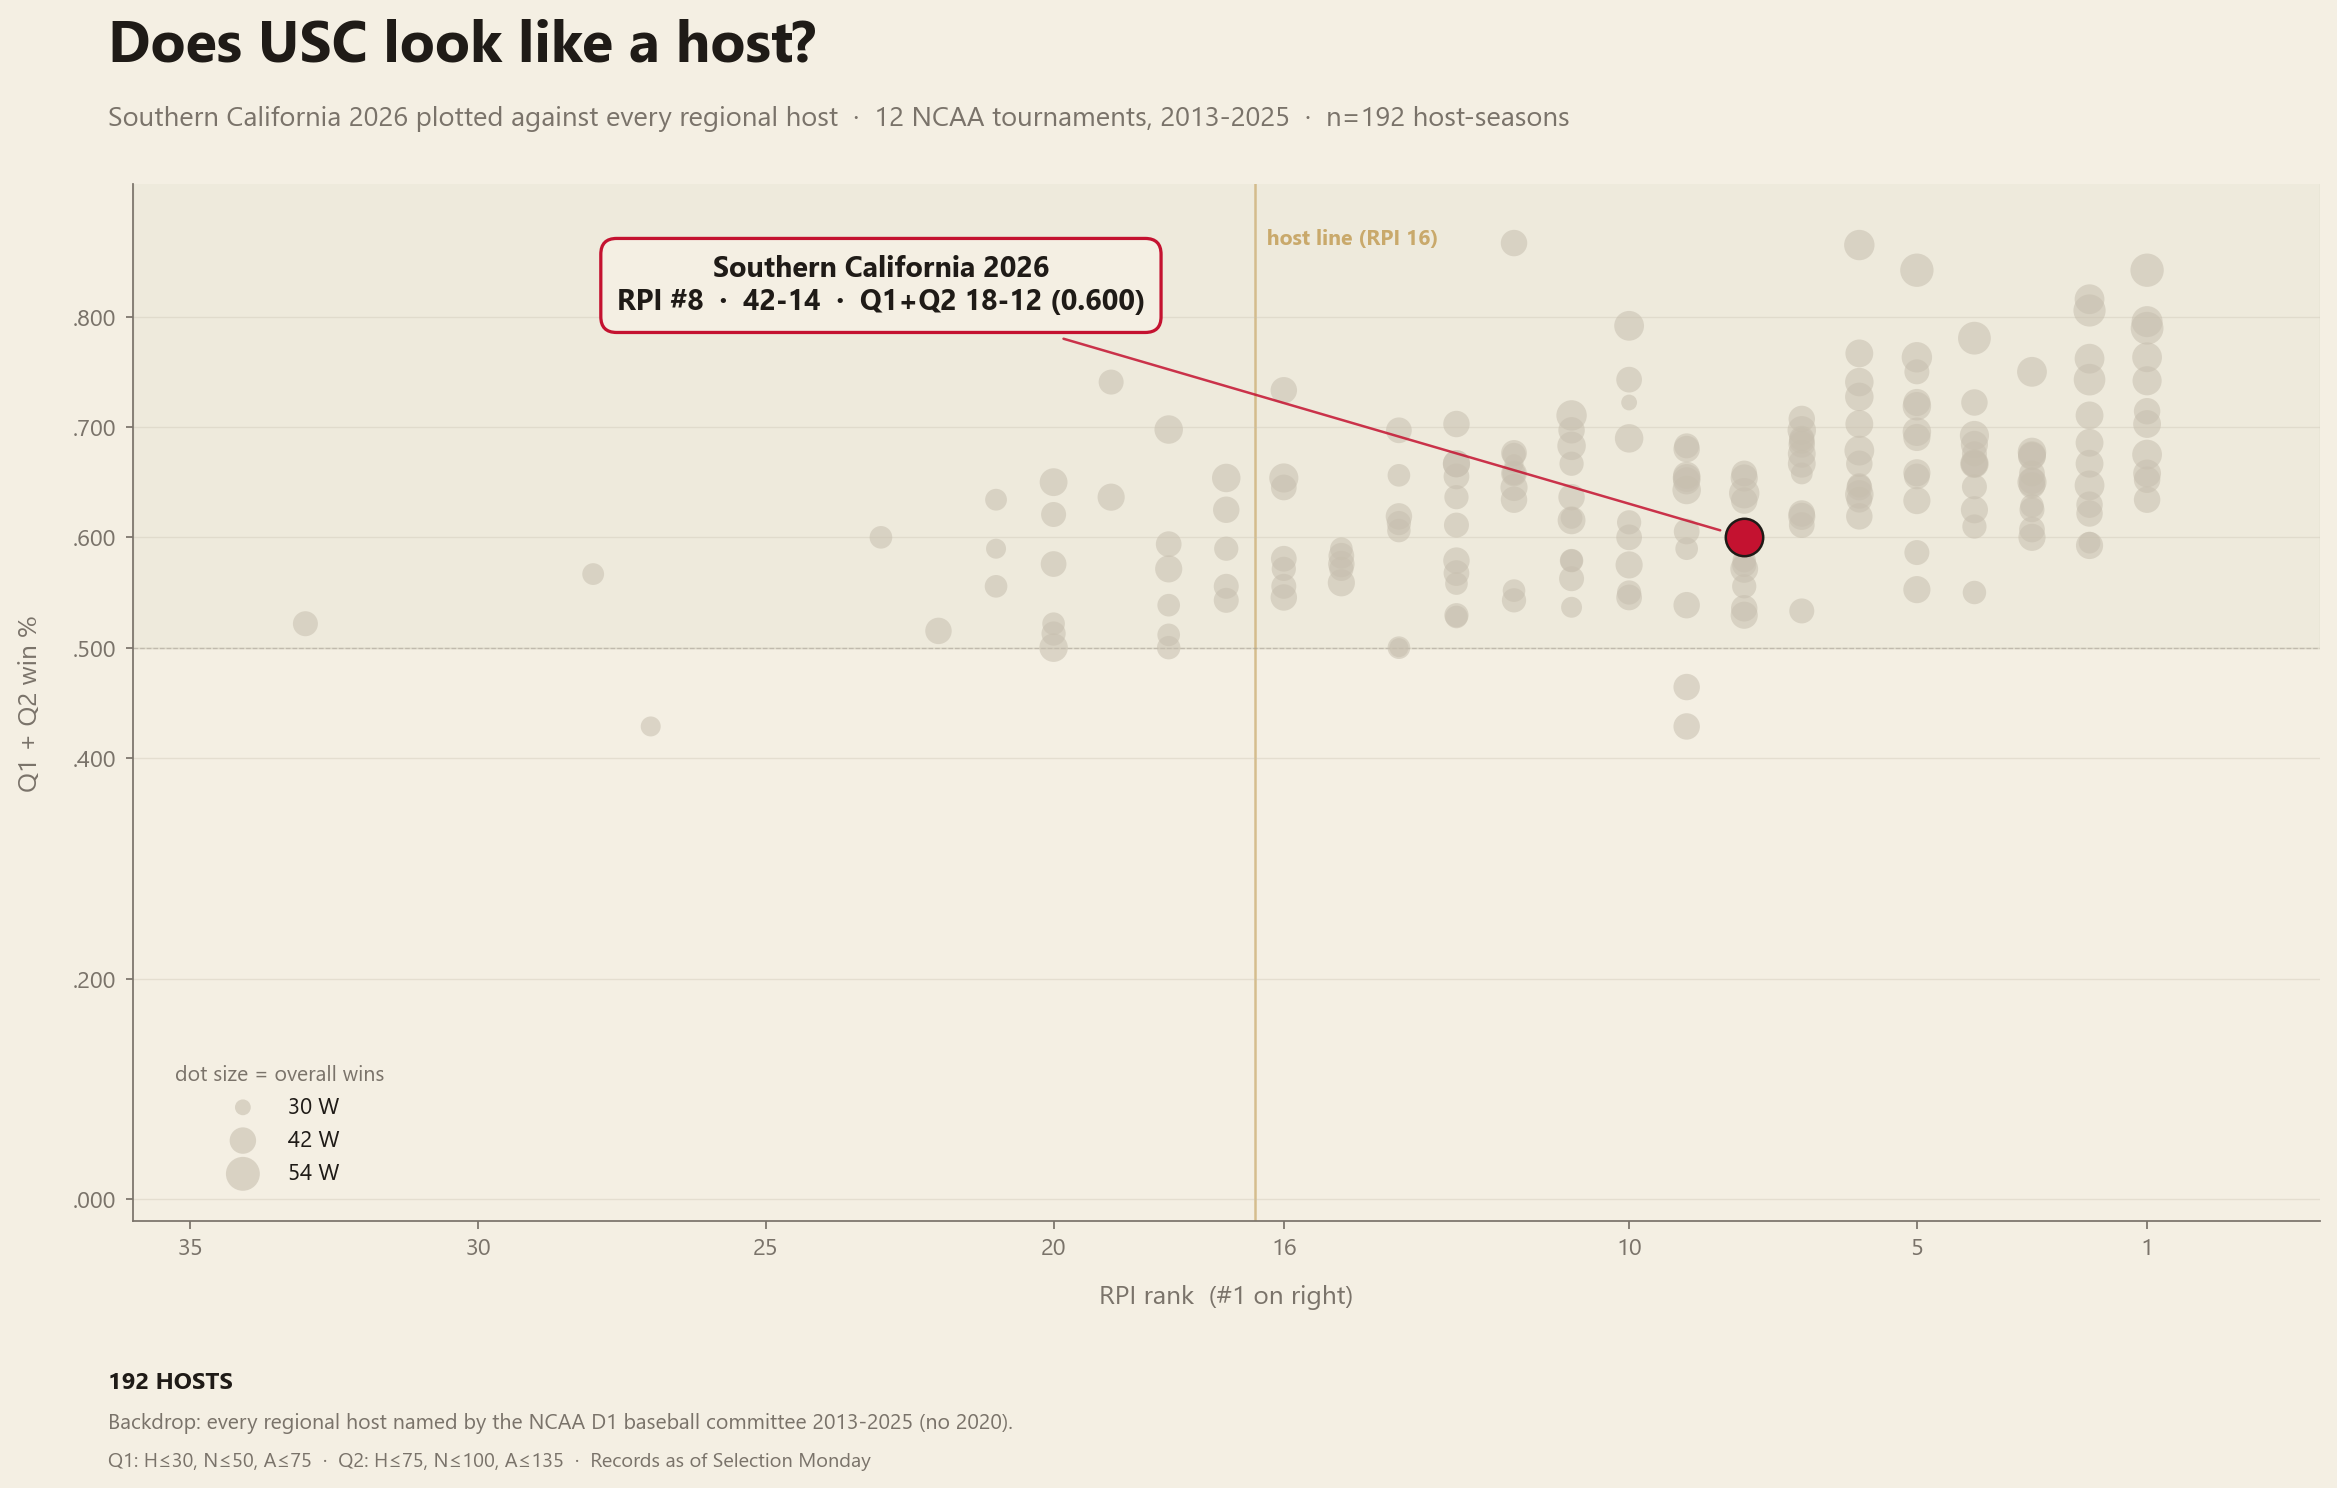
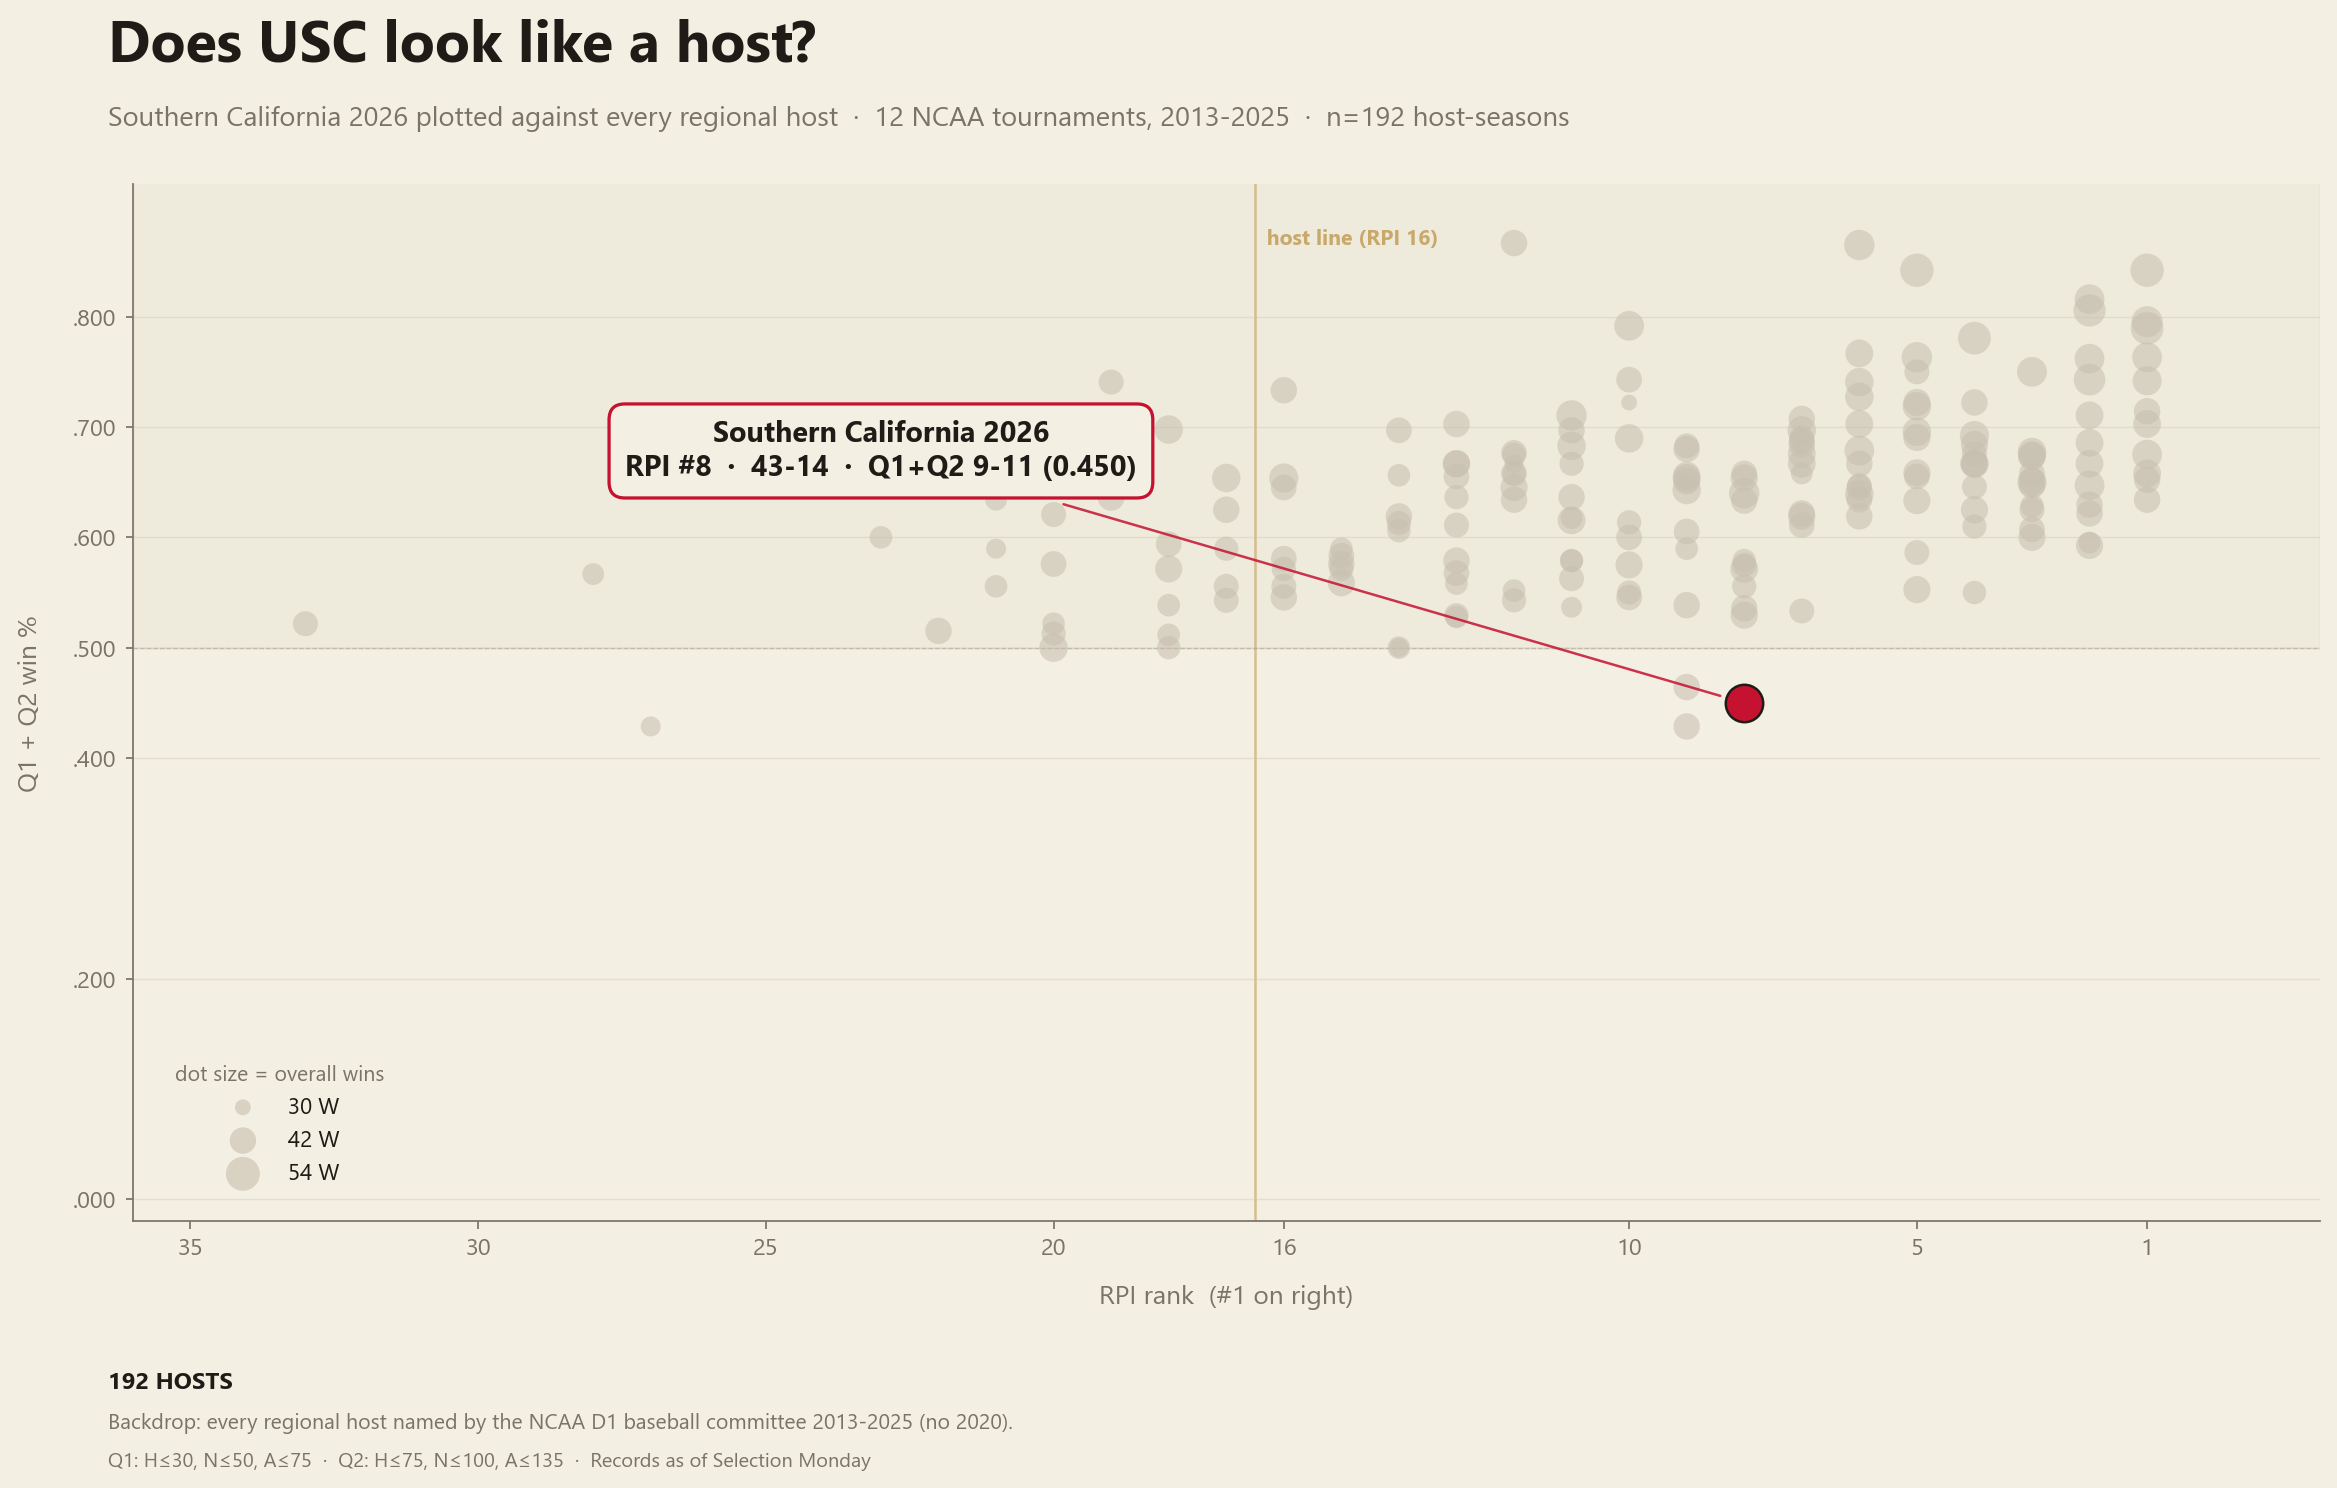
chart: update USC + Mercer to user-provided d1baseball numbers
USC      43-14, RPI #8,  Q1+Q2 9-11 (.450)  was 42-14, 18-12 (.600)
  Mercer   44-15, RPI #28, Q1+Q2 9-13 (.409)  record updated 44-14 -> 44-15

Both stories shift slightly:
  - USC: RPI says host (#8 = inside the cluster), but their Q1+Q2 .450
    is well below where hosts typically live (most hosts are .500-.800).
    Only Texas A&M 2018 (.472) hosted with a comparable Q1+Q2 number.
  - Mercer position unchanged on Q1+Q2 axis; overall record bumped.

diff --git a/scripts/build_current_q1q2.py b/scripts/build_current_q1q2.py
@@ -26,12 +26,22 @@ TEAMS = ['Southern California', 'Mercer']
 # Each override is keyed by team name. Only fields listed are replaced.
 OVERRIDES = {
     'Mercer': {
-        # Per d1baseball.com Selection Monday display 2026-05-23
+        # Per user, d1baseball.com Selection Monday display 2026-05-23
+        'record': '44-15',
         'rpi_rank': 28,
-        'q1_w': 0, 'q1_l': 7,   # 9-13 with Q2 totals below = full override
+        # Q1/Q2 split is approximate — only the Q1+Q2 total matters for the chart
+        'q1_w': 0, 'q1_l': 7,
         'q2_w': 9, 'q2_l': 6,
-        # Recomputed: q1q2_w = q1_w + q2_w; q1q2_g = sum of w+l; pct = w/g
-        '_note': 'Override: d1baseball.com published RPI + Q1/Q2 split (2026-05-23)',
+        '_note': 'Override: d1baseball.com published RPI + Q1/Q2 total (9-13) (2026-05-23)',
+    },
+    'Southern California': {
+        # Per user, d1baseball.com Selection Monday display 2026-05-23
+        'record': '43-14',
+        # RPI rank unchanged (#8)
+        # Q1/Q2 split is approximate — only the Q1+Q2 total matters for the chart
+        'q1_w': 1, 'q1_l': 9,
+        'q2_w': 8, 'q2_l': 2,
+        '_note': 'Override: d1baseball.com published Q1/Q2 total (9-11) (2026-05-23)',
     },
 }
 
